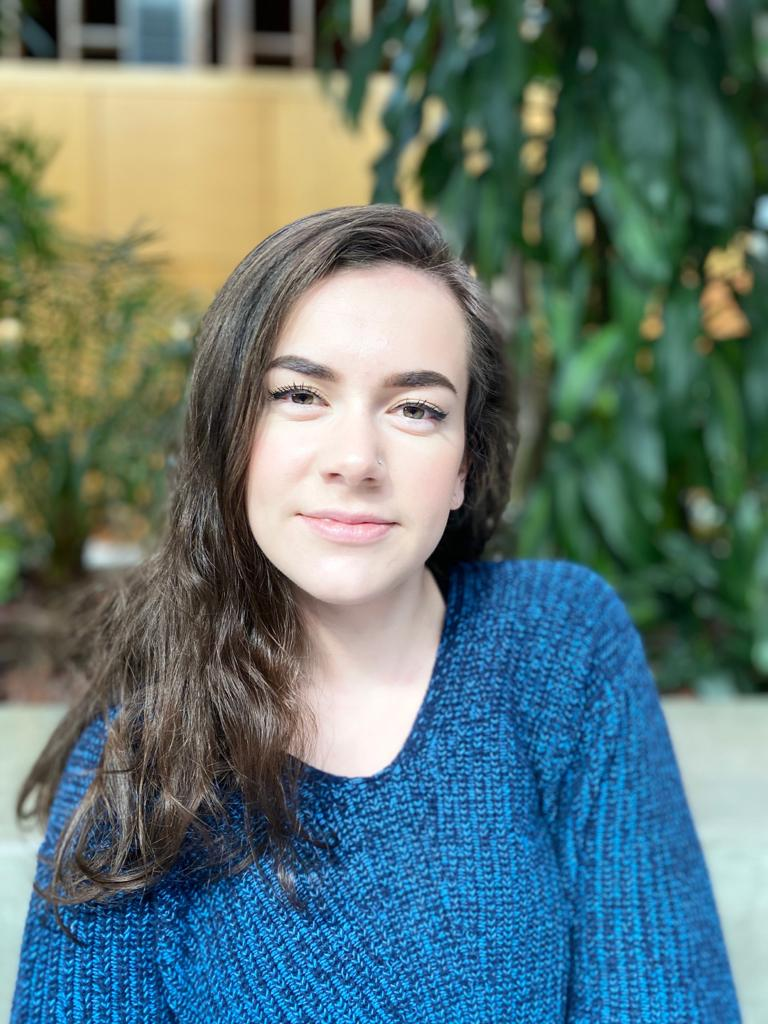
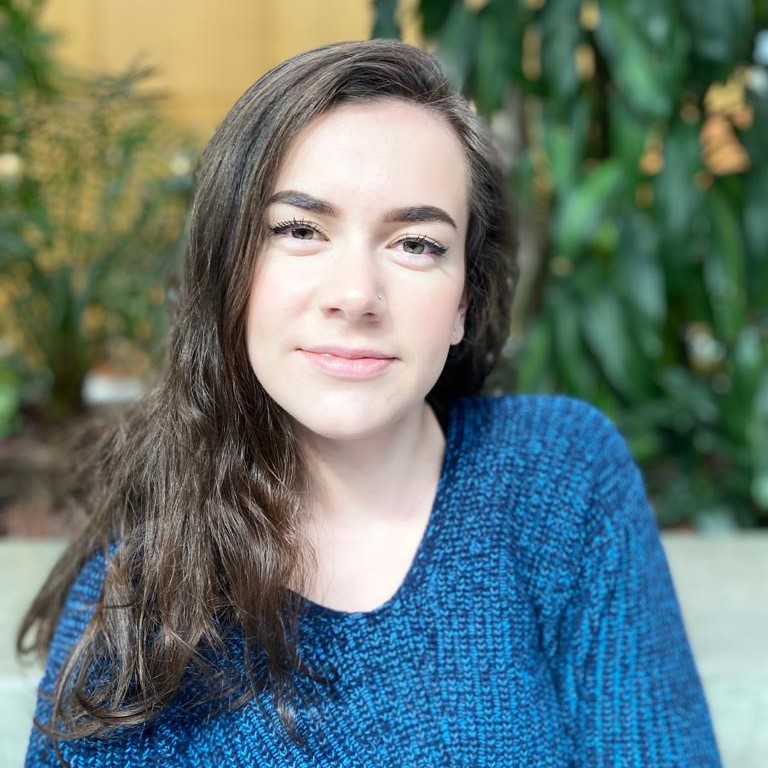
saras hs added

diff --git a/IntroToAppetize.html b/IntroToAppetize.html
@@ -69,7 +69,7 @@
 									   <table cellpadding="0" cellspacing="0" class="sc-gPEVay eQYmiW" style="vertical-align: -webkit-baseline-middle; font-size: medium; font-family: Arial;">
 										  <tbody>
 											 <tr>
-												<td width="150" style="vertical-align: middle;"><span class="sc-kgAjT cuzzPp" style="margin-right: 20px; display: block;"><img style="border-radius: 50%;" src="https://media-exp1.licdn.com/dms/image/C5603AQHl_e9ACnXrKg/profile-displayphoto-shrink_200_200/0?e=1596067200&v=beta&t=141U3mcXSIv5YGLL12Ajhfn9PzM4HoYBjU5hxF5892A" role="presentation" width="130" class="sc-cHGsZl bHiaRe" style="max-width: 130px;"></span></td>
+												<td width="150" style="vertical-align: middle;"><span class="sc-kgAjT cuzzPp" style="margin-right: 20px; display: block;"><img style="border-radius: 50%;" src="https://raw.githubusercontent.com/ksackvil/EmailTemplates/master/Assets/sara-hs.jpeg" role="presentation" width="130" class="sc-cHGsZl bHiaRe" style="max-width: 130px;"></span></td>
 												<td style="padding-top:20px;vertical-align: middle;">
 												   <h3 color="#000000" class="sc-fBuWsC eeihxG" style="margin: 0px; font-size: 18px; color: rgb(250,155,50);"><span>Kai</span><span>&nbsp;</span><span>Sackville-Hii</span></h3>
 												   <p color="#000000" font-size="medium" class="sc-eqIVtm kRufpp" style="color: rgb(0, 0, 0); margin: 0px; font-size: 14px; line-height: 22px;"><span>He / Him</span></p>
